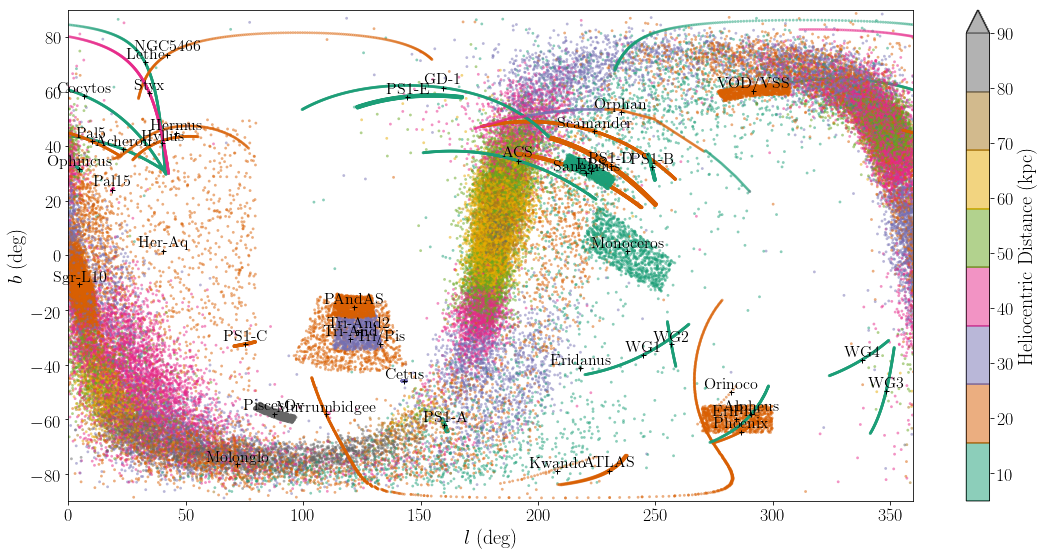
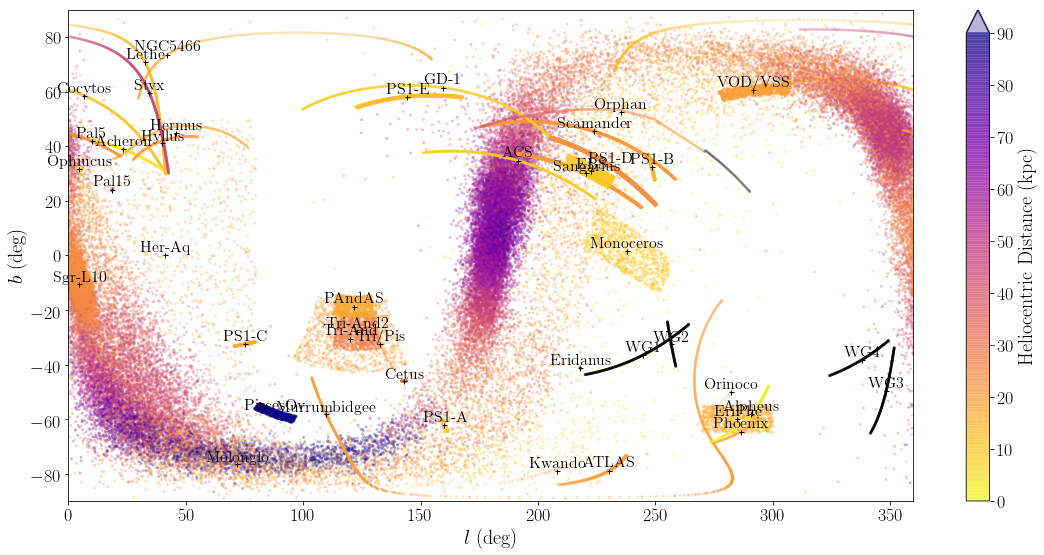
example plot updated with Eri/Phe corrected, streams w missing D shown with diff colour

diff --git a/README.md b/README.md
@@ -68,9 +68,9 @@ To make a quick plot of the stream’s library stored in the mwsts object use:
 
 	fig=plt.figure(1,figsize=(16,8))
 	ax=fig.add_subplot(111)
-        cmapp=plt.cm.Dark2
-        cmapp.set_bad('k')   #If distance info is missing, plot in black
-	mwsts.plot_stream_compilation(ax,plot_colorbar=True,scat_kwargs=dict(vmin=5.,vmax=90.,cmap=cmapp),
+	cmapp=plt.cm.plasma_r
+	cmapp.set_under('k')   #If distance info is missing (-1), plot in black
+	mwsts.plot_stream_compilation(ax,plot_colorbar=True,scat_kwargs=dict(vmin=0.,vmax=90.,cmap=cmapp,alpha=0.3),
 	                              cb_kwargs=dict(label='Heliocentric Distance (kpc)'))
 	ax.set_xlim(0.,360.)
 	ax.set_ylim(-90.,90.)
